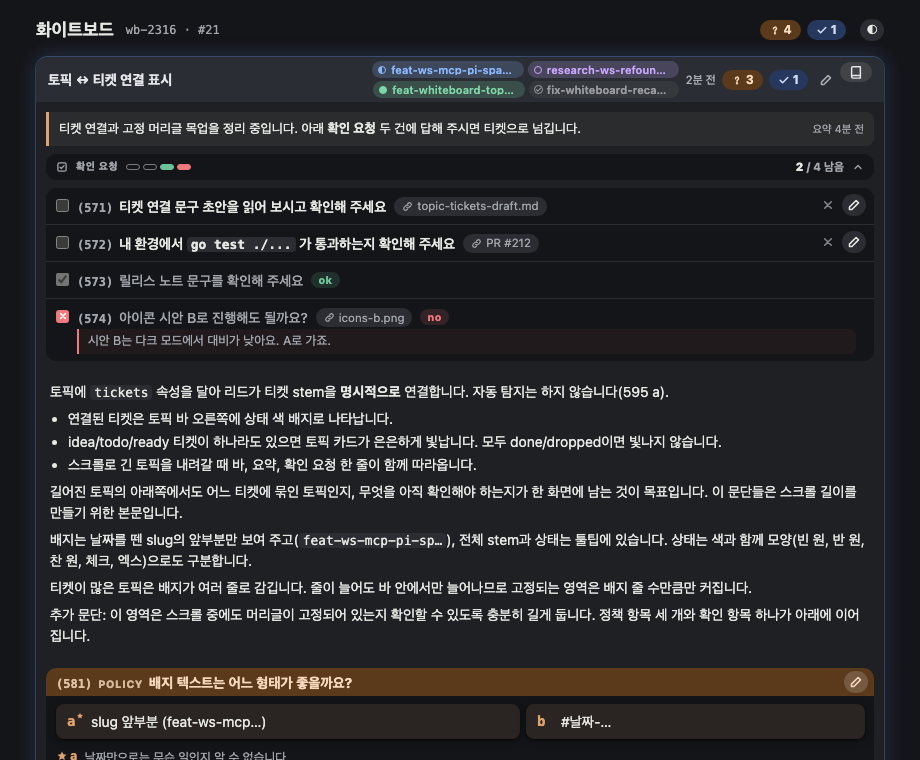
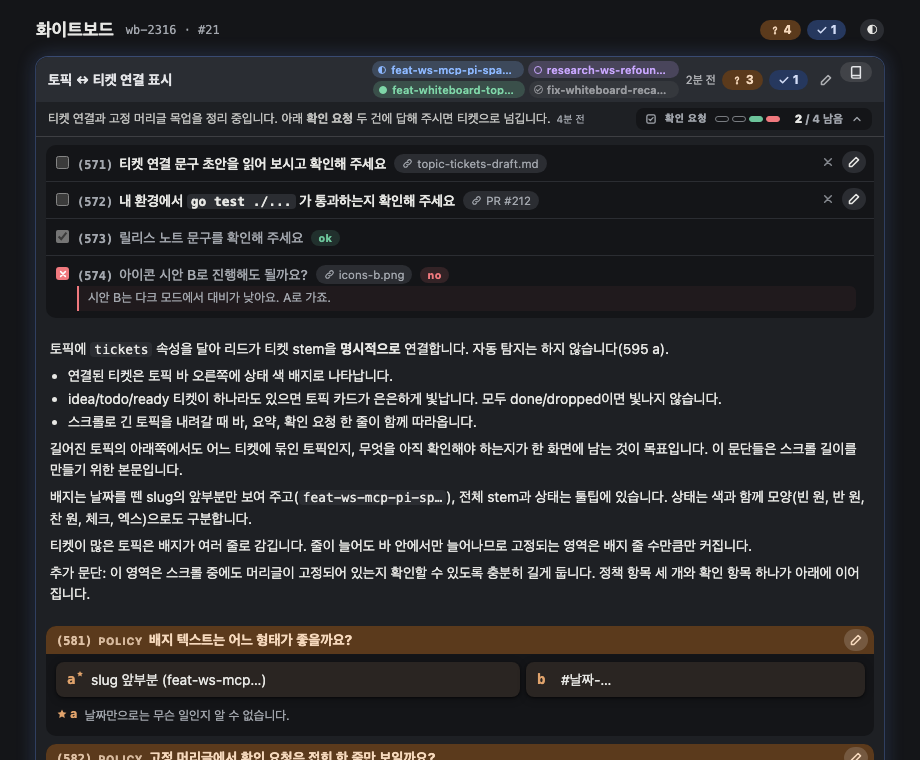
docs(whiteboard): r7b recap sits in the sticky head as plain text on one line with the check pill
Revises the r7 mockup: inside .thead the recap drops its card, and the check
pill shares its line.

## AI Context
- User feedback on r7 (relayed by the coordinator): the recap has too much
  margin, and its bordered accent card feels awkward travelling with a
  header; tone it to match the head. Ideas offered were tighter rhythm on the
  bar's surface, smaller or no accent, muted text, recap and check pill on one
  line, and a shrunk or merged timestamp. Mockup only; plan file unchanged.
- Chosen: recap is muted 12.5px text on the head's own surface (no wash, no
  accent bar, no margins); its time is a tiny inline suffix at the end of the
  text instead of a "요약 <time>" label; recap and pill share one flex line
  and wrap (pill on its own line under 600px); a hairline under the head
  replaces the card edge. Head height at 920px: 131 -> 80px (no check list
  82 -> 61); at 520px: 178 -> 148 (105 -> 84).
- Rejected: merging the recap time into the bar's time, because the two are
  different times (topic update vs recap update) and merging would misstate
  one. Rejected: keeping a thin accent bar, since the head already has the
  dark bar as its anchor and the accent read as a second heading.
- Rest and stuck share the same markup, so their heights stay identical.
  The shipped .trecap card is untouched for recaps outside the head.
- Re-shot all head PNGs (rest, stuck, popover, narrow, glow) in light and
  dark with headless Chromium; no page errors.
[…]

Changed region(s): [[0.0304, 0.1513, 0.9739, 1.0], [0.7, 0.1513, 0.9435, 0.3329]]

diff --git a/ai-docs/ref/whiteboard-mockup/r7-topic-tickets-sticky/index.html b/ai-docs/ref/whiteboard-mockup/r7-topic-tickets-sticky/index.html
@@ -617,7 +617,7 @@ details.panel .body { container-type: inline-size; }
 
 /* -- the sticky head: bar + recap + check summary stick as one unit -- */
 .topic { overflow: clip; }
-.topic > .thead { position: sticky; top: var(--wb-rail-top, 0px); z-index: 3; background: var(--wb-card); padding-bottom: 8px; }
+.topic > .thead { position: sticky; top: var(--wb-rail-top, 0px); z-index: 3; background: var(--wb-card); padding-bottom: 6px; border-bottom: 1px solid var(--wb-line); }
 .thead .tbar { border-radius: var(--wb-radius) var(--wb-radius) 0 0; }
 .thead.wb-stuck { box-shadow: 0 7px 10px -7px rgb(0 0 0 / .4), 0 -6px 0 6px var(--wb-bg); }
 /* today's rule for a stuck bar: the book button scrolls away, so the bar gives its room back */
@@ -626,11 +626,17 @@ details.panel .body { container-type: inline-size; }
 /* the book button is positioned against the topic, so it must clear the head at rest and slip under it once stuck */
 .topic > details.tdoc > summary { z-index: 4; }
 .topic > .thead.wb-stuck ~ details.tdoc > summary { z-index: 2; }
-.thead .trecap { margin-bottom: 0; }
 
 /* check summary: one pill row, always in the head; the list itself is NOT in the head */
-.checks { position: static; margin: 8px 10px 0; }
-.chead { width: 100%; display: flex; align-items: center; gap: 8px; height: 26px; padding: 0 10px; border: 0; border-radius: 10px; background: var(--wb-bg); color: var(--wb-muted-fg); font-size: 10.5px; font-weight: 800; letter-spacing: .06em; text-transform: uppercase; cursor: pointer; text-align: left; }
+.checks { position: static; margin: 0; flex: 0 0 auto; width: 236px; }
+/* r7b: inside the head the recap is plain text on the head's own surface (no card, no accent bar, no margins),
+   and recap and check pill share one line where the width allows */
+.thead .tsub { display: flex; flex-wrap: wrap; align-items: center; gap: 4px 12px; padding: 6px 12px 0; }
+.thead .trecap { flex: 1 1 22em; display: block; margin: 0; padding: 0; background: none; border: 0; border-radius: 0; font-size: 12.5px; line-height: 1.45; color: color-mix(in srgb, var(--wb-fg) 80%, transparent); }
+.thead .trecap .rtext { display: block; flex: none; }
+.thead .trecap .rtext > p { display: inline; margin: 0; }
+.thead .trecap .rat { display: inline; margin-left: 6px; font-size: 10.5px; color: var(--wb-muted-fg); }
+.chead { width: 100%; display: flex; align-items: center; gap: 8px; height: 22px; padding: 0 9px; border: 0; border-radius: 8px; background: var(--wb-bg); color: var(--wb-muted-fg); font-size: 10.5px; font-weight: 800; letter-spacing: .06em; text-transform: uppercase; cursor: pointer; text-align: left; white-space: nowrap; }
 .chead:hover { color: var(--wb-fg); }
 .chead:focus-visible { outline: 2px solid var(--wb-primary); outline-offset: 1px; }
 .chead .i { width: 12px; height: 12px; flex: none; }
@@ -643,11 +649,11 @@ details.panel .body { container-type: inline-size; }
 .chead .chev { transition: transform .15s; }
 .chead[aria-expanded="true"] .chev { transform: rotate(180deg); }
 /* stuck: the expansion is a popover under the head, over the body; at rest the list is in flow */
-.cpop { position: absolute; left: 10px; right: 10px; top: calc(100% - 4px); max-height: 46vh; overflow-y: auto; border-radius: 10px; background: var(--wb-bg); box-shadow: var(--wb-shadow-hi), 0 0 0 1px var(--wb-line); }
+.cpop { position: absolute; left: 10px; right: 10px; top: calc(100% - 2px); max-height: 46vh; overflow-y: auto; border-radius: 10px; background: var(--wb-bg); box-shadow: var(--wb-shadow-hi), 0 0 0 1px var(--wb-line); }
 .cpop[hidden] { display: none; }
 
 /* the in-flow check list (r6, unchanged): recessed surface under the head */
-.crows { margin: 0 10px 10px; border-radius: 10px; overflow: hidden; background: var(--wb-bg); }
+.crows { margin: 8px 10px 10px; border-radius: 10px; overflow: hidden; background: var(--wb-bg); }
 .crows[hidden] { display: none; }
 .crow + .crow { border-top: 1px solid var(--wb-muted); }
 .crow > .btn.mini { margin-top: 6px; }
@@ -685,19 +691,20 @@ details.panel .body { container-type: inline-size; }
   .thead .tbar { flex-wrap: wrap; row-gap: 4px; padding-top: 5px; padding-bottom: 5px; }
   .thead .tbar .tlead { flex: 1 1 8em; }
   .thead .tbar .ttix { order: 9; flex: 1 1 100%; max-width: none; }
+  .checks { flex: 1 1 100%; width: auto; }
 }
 </style></head>
 <body class="full"><svg width="0" height="0" style="position:absolute" aria-hidden="true"><symbol id="i-check" viewBox="0 0 16 16"><path d="M3 8.5l3.2 3.1L13 4.6"/></symbol><symbol id="i-x" viewBox="0 0 16 16"><path d="M4.2 4.2l7.6 7.6M11.8 4.2l-7.6 7.6"/></symbol><symbol id="i-pen" viewBox="0 0 16 16"><path d="M10.4 2.8l2.8 2.8-7.6 7.6H2.8v-2.8z"/></symbol><symbol id="i-copy" viewBox="0 0 16 16"><rect x="5.5" y="5.5" width="8" height="8" rx="1.6"/><path d="M10.5 3.2V3a.8.8 0 0 0-.8-.8H3a.8.8 0 0 0-.8.8v6.7c0 .4.4.8.8.8h.2"/></symbol><symbol id="i-list" viewBox="0 0 16 16"><path d="M3 4.5h10M3 8h10M3 11.5h10"/></symbol><symbol id="i-arrow" viewBox="0 0 16 16"><path d="M2.5 8h10M9 4.5L12.5 8 9 11.5"/></symbol><symbol id="i-ask" viewBox="0 0 16 16"><path d="M6 6.2a2 2 0 1 1 2.8 1.8c-.5.3-.8.7-.8 1.3v.4"/><circle cx="8" cy="12.3" r=".6" fill="currentColor"/></symbol><symbol id="i-star" viewBox="0 0 16 16"><path fill="currentColor" stroke="none" d="M8 1.9l1.8 3.8 4.1.5-3 2.9.8 4.1L8 11.2l-3.7 2 .8-4.1-3-2.9 4.1-.5z"/></symbol><symbol id="i-now" viewBox="0 0 16 16"><path fill="currentColor" stroke="none" d="M8 2l6 6-6 6-6-6z"/></symbol><symbol id="i-todo" viewBox="0 0 16 16"><rect x="2.5" y="2.5" width="11" height="11" rx="2"/><path d="M5.2 8.2l1.9 1.8 3.7-3.8"/></symbol><symbol id="i-agenda" viewBox="0 0 16 16"><path d="M4 13.8V2.4h7.6l-1.7 3 1.7 3H4"/></symbol><symbol id="i-mail" viewBox="0 0 16 16"><rect x="2" y="3.5" width="12" height="9" rx="1.6"/><path d="M2.6 4.6L8 8.8l5.4-4.2"/></symbol><symbol id="i-book" viewBox="0 0 16 16"><path d="M3 3.5a1.5 1.5 0 0 1 1.5-1.5H13v10H4.5A1.5 1.5 0 0 0 3 13.5zM3 13.5A1.5 1.5 0 0 0 4.5 15H13v-3"/></symbol><symbol id="i-board" viewBox="0 0 16 16"><rect x="2" y="2.5" width="12" height="11" rx="1.6"/><path d="M6 2.5v11M10 2.5v11"/></symbol>
 <symbol id="i-reload" viewBox="0 0 16 16"><path d="M14.3 2.8v3.9h-3.9"/><path d="M13 10.2a5.4 5.4 0 1 1-1.3-5.6l2.6 2.1"/></symbol><symbol id="i-link" viewBox="0 0 16 16"><path d="M6.8 9.2a2.6 2.6 0 0 0 3.7 0l2.2-2.2a2.6 2.6 0 0 0-3.7-3.7l-.9.9M9.2 6.8a2.6 2.6 0 0 0-3.7 0L3.3 9a2.6 2.6 0 0 0 3.7 3.7l.9-.9"/></symbol><symbol id="i-box" viewBox="0 0 16 16"><rect x="2.5" y="2.5" width="11" height="11" rx="2"/></symbol><symbol id="i-box-wip" viewBox="0 0 16 16"><rect x="2.5" y="2.5" width="11" height="11" rx="2"/><path fill="currentColor" stroke="none" d="M5 5.2h3v5.6H5z"/></symbol><symbol id="i-box-done" viewBox="0 0 16 16"><rect x="2.5" y="2.5" width="11" height="11" rx="2"/><path d="M5.2 8.2l1.9 1.8 3.7-3.8"/></symbol><symbol id="i-box-defer" viewBox="0 0 16 16"><rect x="2.5" y="2.5" width="11" height="11" rx="2"/><path d="M5.6 8h4.6M8.6 5.9L10.7 8l-2.1 2.1"/></symbol><symbol id="i-zoom-in" viewBox="0 0 16 16"><circle cx="7" cy="7" r="4.6"/><path d="M10.4 10.4L14 14M5 7h4M7 5v4"/></symbol><symbol id="i-zoom-out" viewBox="0 0 16 16"><circle cx="7" cy="7" r="4.6"/><path d="M10.4 10.4L14 14M5 7h4"/></symbol><symbol id="i-fit" viewBox="0 0 16 16"><path d="M2.5 6V2.5H6M10 2.5h3.5V6M13.5 10v3.5H10M6 13.5H2.5V10"/></symbol><symbol id="i-ext" viewBox="0 0 16 16"><path d="M9 2.5h4.5V7M13.5 2.5L7.5 8.5M11.5 9.5v3a1 1 0 0 1-1 1h-6a1 1 0 0 1-1-1v-6a1 1 0 0 1 1-1h3"/></symbol><symbol id="i-chev" viewBox="0 0 16 16"><path d="M4 6l4 4 4-4"/></symbol></svg><div class="wrap">
 <div class="top"><h1>화이트보드</h1><span class="meta">wb-2316 · #21</span><span class="counts"><span class="chip policy"><svg class="i" aria-hidden="true"><use href="#i-ask"/></svg>4</span><span class="chip ok"><svg class="i" aria-hidden="true"><use href="#i-check"/></svg>1</span><button class="btn mini themebtn" id="theme" title="light / dark">◐</button></span></div>
-<section class="topic has-doc live" data-topic="topic-tickets"><div class="thead"><div class="tbar"><span class="tlead"><span class="tname">토픽 ↔ 티켓 연결 표시</span></span><span class="ttix"><a class="tk todo" href="#" title="261112-feat-ws-mcp-pi-spawn-claude-lead-path - todo"><span class="st"></span><span class="nm">feat-ws-mcp-pi-spawn-claude-lead-path</span></a><a class="tk idea" href="#" title="260909-research-ws-refoundation-evidence-audit - idea"><span class="st"></span><span class="nm">research-ws-refoundation-evidence-audit</span></a><a class="tk ready" href="#" title="261108-feat-whiteboard-topic-tickets-attribute - ready"><span class="st"></span><span class="nm">feat-whiteboard-topic-tickets-attribute</span></a><a class="tk done" href="#" title="261101-fix-whiteboard-recap-clip - done"><svg class="st i" aria-hidden="true"><use href="#i-check"/></svg><span class="nm">fix-whiteboard-recap-clip</span></a></span><time class="tago" title="갱신">2분 전</time><button type="button" class="chip policy bulk"><svg class="i" aria-hidden="true"><use href="#i-ask"/></svg>3</button><button type="button" class="chip ok bulk"><svg class="i" aria-hidden="true"><use href="#i-check"/></svg>1</button><button class="btn mini tnote-toggle" title="토픽 메모"><svg class="i" aria-hidden="true"><use href="#i-pen"/></svg></button></div><div class="trecap"><div class="rtext md"><p>티켓 연결과 고정 머리글 목업을 정리 중입니다. 아래 <b>확인 요청</b> 두 건에 답해 주시면 티켓으로 넘깁니다.</p></div><span class="rat" title="2026-11-12 23:20">요약 <time class="tago">4분 전</time></span></div><div class="checks"><button class="chead" type="button" aria-expanded="true" title="확인 요청"><svg class="i" aria-hidden="true"><use href="#i-todo"/></svg>확인 요청<span class="pips"></span><span class="prog"><b>0</b> / 0 남음</span><svg class="i chev" aria-hidden="true"><use href="#i-chev"/></svg></button><div class="cpop" hidden></div></div></div><div class="crows"><div class="arow crow" id="item-571" data-id="571"><label class="ack ck"><input type="checkbox" data-id="571"><span class="atext"><span class="head"><span class="id">(571)</span><span class="title">티켓 연결 문구 초안을 읽어 보시고 확인해 주세요</span></span><a class="lchip" href="#"><svg class="i" aria-hidden="true"><use href="#i-link"/></svg>topic-tickets-draft.md</a></span></label><button class="btn mini no-toggle" title="아니요(no)로 답하기"><svg class="i" aria-hidden="true"><use href="#i-x"/></svg></button><button class="btn mini note-toggle" title="메모"><svg class="i" aria-hidden="true"><use href="#i-pen"/></svg></button></div><div class="arow crow" id="item-572" data-id="572"><label class="ack ck"><input type="checkbox" data-id="572"><span class="atext"><span class="head"><span class="id">(572)</span><span class="title">내 환경에서 <code>go test ./...</code> 가 통과하는지 확인해 주세요</span></span><a class="lchip" href="#"><svg class="i" aria-hidden="true"><use href="#i-link"/></svg>PR #212</a></span></label><button class="btn mini no-toggle" title="아니요(no)로 답하기"><svg class="i" aria-hidden="true"><use href="#i-x"/></svg></button><button class="btn mini note-toggle" title="메모"><svg class="i" aria-hidden="true"><use href="#i-pen"/></svg></button></div><div class="arow crow done" id="item-573"><label class="ack ck"><input type="checkbox" checked disabled><span class="atext"><span class="head"><span class="id">(573)</span><span class="title">릴리스 노트 문구를 확인해 주세요</span></span><span class="stamp">ok</span></span></label></div><div class="arow crow no" id="item-574"><label class="ack ck"><span class="cbox"><svg class="i" aria-hidden="true"><use href="#i-x"/></svg></span><span class="atext"><span class="head"><span class="id">(574)</span><span class="title">아이콘 시안 B로 진행해도 될까요?</span></span><a class="lchip" href="#"><svg class="i" aria-hidden="true"><use href="#i-link"/></svg>icons-b.png</a><span class="stamp">no</span><span class="said">시안 B는 다크 모드에서 대비가 낮아요. A로 가죠.</span></span></label></div></div><textarea class="note tnote" rows="1" placeholder="✎" title="토픽 메모" hidden></textarea><details class="tdoc" open><summary title="토픽 본문"><svg class="i" aria-hidden="true"><use href="#i-book"/></svg></summary><div class="doc-body md"><p>토픽에 <code>tickets</code> 속성을 달아 리드가 티켓 stem을 <b>명시적으로</b> 연결합니다. 자동 탐지는 하지 않습니다(595 a).</p>
+<section class="topic has-doc live" data-topic="topic-tickets"><div class="thead"><div class="tbar"><span class="tlead"><span class="tname">토픽 ↔ 티켓 연결 표시</span></span><span class="ttix"><a class="tk todo" href="#" title="261112-feat-ws-mcp-pi-spawn-claude-lead-path - todo"><span class="st"></span><span class="nm">feat-ws-mcp-pi-spawn-claude-lead-path</span></a><a class="tk idea" href="#" title="260909-research-ws-refoundation-evidence-audit - idea"><span class="st"></span><span class="nm">research-ws-refoundation-evidence-audit</span></a><a class="tk ready" href="#" title="261108-feat-whiteboard-topic-tickets-attribute - ready"><span class="st"></span><span class="nm">feat-whiteboard-topic-tickets-attribute</span></a><a class="tk done" href="#" title="261101-fix-whiteboard-recap-clip - done"><svg class="st i" aria-hidden="true"><use href="#i-check"/></svg><span class="nm">fix-whiteboard-recap-clip</span></a></span><time class="tago" title="갱신">2분 전</time><button type="button" class="chip policy bulk"><svg class="i" aria-hidden="true"><use href="#i-ask"/></svg>3</button><button type="button" class="chip ok bulk"><svg class="i" aria-hidden="true"><use href="#i-check"/></svg>1</button><button class="btn mini tnote-toggle" title="토픽 메모"><svg class="i" aria-hidden="true"><use href="#i-pen"/></svg></button></div><div class="tsub"><div class="trecap"><div class="rtext md"><p>티켓 연결과 고정 머리글 목업을 정리 중입니다. 아래 <b>확인 요청</b> 두 건에 답해 주시면 티켓으로 넘깁니다.</p><span class="rat" title="요약 2026-11-12 23:20"><time class="tago">4분 전</time></span></div></div><div class="checks"><button class="chead" type="button" aria-expanded="true" title="확인 요청"><svg class="i" aria-hidden="true"><use href="#i-todo"/></svg>확인 요청<span class="pips"></span><span class="prog"><b>0</b> / 0 남음</span><svg class="i chev" aria-hidden="true"><use href="#i-chev"/></svg></button><div class="cpop" hidden></div></div></div></div><div class="crows"><div class="arow crow" id="item-571" data-id="571"><label class="ack ck"><input type="checkbox" data-id="571"><span class="atext"><span class="head"><span class="id">(571)</span><span class="title">티켓 연결 문구 초안을 읽어 보시고 확인해 주세요</span></span><a class="lchip" href="#"><svg class="i" aria-hidden="true"><use href="#i-link"/></svg>topic-tickets-draft.md</a></span></label><button class="btn mini no-toggle" title="아니요(no)로 답하기"><svg class="i" aria-hidden="true"><use href="#i-x"/></svg></button><button class="btn mini note-toggle" title="메모"><svg class="i" aria-hidden="true"><use href="#i-pen"/></svg></button></div><div class="arow crow" id="item-572" data-id="572"><label class="ack ck"><input type="checkbox" data-id="572"><span class="atext"><span class="head"><span class="id">(572)</span><span class="title">내 환경에서 <code>go test ./...</code> 가 통과하는지 확인해 주세요</span></span><a class="lchip" href="#"><svg class="i" aria-hidden="true"><use href="#i-link"/></svg>PR #212</a></span></label><button class="btn mini no-toggle" title="아니요(no)로 답하기"><svg class="i" aria-hidden="true"><use href="#i-x"/></svg></button><button class="btn mini note-toggle" title="메모"><svg class="i" aria-hidden="true"><use href="#i-pen"/></svg></button></div><div class="arow crow done" id="item-573"><label class="ack ck"><input type="checkbox" checked disabled><span class="atext"><span class="head"><span class="id">(573)</span><span class="title">릴리스 노트 문구를 확인해 주세요</span></span><span class="stamp">ok</span></span></label></div><div class="arow crow no" id="item-574"><label class="ack ck"><span class="cbox"><svg class="i" aria-hidden="true"><use href="#i-x"/></svg></span><span class="atext"><span class="head"><span class="id">(574)</span><span class="title">아이콘 시안 B로 진행해도 될까요?</span></span><a class="lchip" href="#"><svg class="i" aria-hidden="true"><use href="#i-link"/></svg>icons-b.png</a><span class="stamp">no</span><span class="said">시안 B는 다크 모드에서 대비가 낮아요. A로 가죠.</span></span></label></div></div><textarea class="note tnote" rows="1" placeholder="✎" title="토픽 메모" hidden></textarea><details class="tdoc" open><summary title="토픽 본문"><svg class="i" aria-hidden="true"><use href="#i-book"/></svg></summary><div class="doc-body md"><p>토픽에 <code>tickets</code> 속성을 달아 리드가 티켓 stem을 <b>명시적으로</b> 연결합니다. 자동 탐지는 하지 않습니다(595 a).</p>
 <ul><li>연결된 티켓은 토픽 바 오른쪽에 상태 색 배지로 나타납니다.</li><li>idea/todo/ready 티켓이 하나라도 있으면 토픽 카드가 은은하게 빛납니다. 모두 done/dropped이면 빛나지 않습니다.</li><li>스크롤로 긴 토픽을 내려갈 때 바, 요약, 확인 요청 한 줄이 함께 따라옵니다.</li></ul>
 <p>길어진 토픽의 아래쪽에서도 어느 티켓에 묶인 토픽인지, 무엇을 아직 확인해야 하는지가 한 화면에 남는 것이 목표입니다. 이 문단들은 스크롤 길이를 만들기 위한 본문입니다.</p>
 <p>배지는 날짜를 뗀 slug의 앞부분만 보여 주고(<code>feat-ws-mcp-pi-sp…</code>), 전체 stem과 상태는 툴팁에 있습니다. 상태는 색과 함께 모양(빈 원, 반 원, 찬 원, 체크, 엑스)으로도 구분합니다.</p>
 <p>티켓이 많은 토픽은 배지가 여러 줄로 감깁니다. 줄이 늘어도 바 안에서만 늘어나므로 고정되는 영역은 배지 줄 수만큼만 커집니다.</p>
 <p>추가 문단: 이 영역은 스크롤 중에도 머리글이 고정되어 있는지 확인할 수 있도록 충분히 길게 둡니다. 정책 항목 세 개와 확인 항목 하나가 아래에 이어집니다.</p></div></details><div class="tbody"><div class="card policy" id="item-581" data-id="581"><div class="cbar"><span class="head"><span class="id">(581)</span><span class="cls">policy</span><span class="title">배지 텍스트는 어느 형태가 좋을까요?</span></span><button class="btn mini note-toggle" title="메모"><svg class="i" aria-hidden="true"><use href="#i-pen"/></svg></button></div><div class="cbody"><div class="opts"><button class="opt rec" data-opt="a" aria-pressed="false"><span class="k">a<svg class="i" aria-hidden="true"><use href="#i-star"/></svg></span><span>slug 앞부분 (feat-ws-mcp…)</span></button><button class="opt" data-opt="b" aria-pressed="false"><span class="k">b</span><span>#날짜-…</span></button></div><div class="rec-line md" title="추천"><b><svg class="i" aria-hidden="true"><use href="#i-star"/></svg>a</b> 날짜만으로는 무슨 일인지 알 수 없습니다.</div></div></div><div class="card policy" id="item-582" data-id="582"><div class="cbar"><span class="head"><span class="id">(582)</span><span class="cls">policy</span><span class="title">고정 머리글에서 확인 요청은 접힌 한 줄만 보일까요?</span></span><button class="btn mini note-toggle" title="메모"><svg class="i" aria-hidden="true"><use href="#i-pen"/></svg></button></div><div class="cbody"><div class="opts"><button class="opt rec" data-opt="a" aria-pressed="false"><span class="k">a<svg class="i" aria-hidden="true"><use href="#i-star"/></svg></span><span>접힌 한 줄, 클릭하면 펼침</span></button><button class="opt" data-opt="b" aria-pressed="false"><span class="k">b</span><span>항상 펼침</span></button></div><div class="rec-line md" title="추천"><b><svg class="i" aria-hidden="true"><use href="#i-star"/></svg>a</b> 머리글이 화면을 가리지 않습니다.</div></div></div><div class="card policy" id="item-583" data-id="583"><div class="cbar"><span class="head"><span class="id">(583)</span><span class="cls">policy</span><span class="title">글로우 색은 무엇으로 할까요?</span></span><button class="btn mini note-toggle" title="메모"><svg class="i" aria-hidden="true"><use href="#i-pen"/></svg></button></div><div class="cbody"><div class="opts"><button class="opt rec" data-opt="a" aria-pressed="false"><span class="k">a<svg class="i" aria-hidden="true"><use href="#i-star"/></svg></span><span>보드 primary</span></button><button class="opt" data-opt="b" aria-pressed="false"><span class="k">b</span><span>상태별 색</span></button></div><div class="rec-line md" title="추천"><b><svg class="i" aria-hidden="true"><use href="#i-star"/></svg>a</b> 새 색을 만들지 않습니다.</div></div></div><div class="acks"><div class="arow" id="item-584" data-id="584"><label class="ack"><input type="checkbox" data-id="584"><span class="atext"><span class="head"><span class="id">(584)</span><span class="tag announced">announced</span><span class="title">목업은 제품 코드를 건드리지 않았습니다</span></span><span class="why">ai-docs/ref/whiteboard-mockup/r7-topic-tickets-sticky/ 만 추가됩니다.</span></span></label><button class="btn mini note-toggle" title="메모"><svg class="i" aria-hidden="true"><use href="#i-pen"/></svg></button></div></div></div></section>
 <div class="spacer"></div>
-<section class="topic live" data-topic="pi-spawn"><div class="thead"><div class="tbar"><span class="tlead"><span class="tname">pi spawn: claude 리드 경로</span></span><span class="ttix"><a class="tk ready" href="#" title="261112-feat-ws-mcp-pi-spawn-claude-lead-path - ready"><span class="st"></span><span class="nm">feat-ws-mcp-pi-spawn-claude-lead-path</span></a><a class="tk done" href="#" title="261030-fix-wiki-link-escape - done"><svg class="st i" aria-hidden="true"><use href="#i-check"/></svg><span class="nm">fix-wiki-link-escape</span></a></span><time class="tago" title="갱신">1시간 전</time><button class="btn mini tnote-toggle" title="토픽 메모"><svg class="i" aria-hidden="true"><use href="#i-pen"/></svg></button></div><div class="trecap"><div class="rtext md"><p><b>glow</b>: ready 티켓이 하나 있어 카드가 빛납니다.</p></div><span class="rat" title="2026-11-12 23:20">요약 <time class="tago">1시간 전</time></span></div></div><div class="tbody"><div class="card policy" id="item-591" data-id="591"><div class="cbar"><span class="head"><span class="id">(591)</span><span class="cls">policy</span><span class="title">스폰 경로를 한 번에 합칠까요?</span></span><button class="btn mini note-toggle" title="메모"><svg class="i" aria-hidden="true"><use href="#i-pen"/></svg></button></div><div class="cbody"><div class="opts"><button class="opt rec" data-opt="a" aria-pressed="false"><span class="k">a<svg class="i" aria-hidden="true"><use href="#i-star"/></svg></span><span>합친다</span></button><button class="opt" data-opt="b" aria-pressed="false"><span class="k">b</span><span>나눈다</span></button></div><div class="rec-line md" title="추천"><b><svg class="i" aria-hidden="true"><use href="#i-star"/></svg>a</b> 한 번에 합치는 편이 단순합니다.</div></div></div></div></section><section class="topic" data-topic="check-items"><div class="thead"><div class="tbar"><span class="tlead"><span class="tname">화이트보드 check 항목</span></span><span class="ttix"><a class="tk done" href="#" title="261021-feat-whiteboard-check-items - done"><svg class="st i" aria-hidden="true"><use href="#i-check"/></svg><span class="nm">feat-whiteboard-check-items</span></a><a class="tk done" href="#" title="261022-fix-whiteboard-ack-bulk - done"><svg class="st i" aria-hidden="true"><use href="#i-check"/></svg><span class="nm">fix-whiteboard-ack-bulk</span></a><a class="tk dropped" href="#" title="261015-idea-whiteboard-dim-bars - dropped"><svg class="st i" aria-hidden="true"><use href="#i-x"/></svg><span class="nm">idea-whiteboard-dim-bars</span></a></span><time class="tago" title="갱신">어제</time><button class="btn mini tnote-toggle" title="토픽 메모"><svg class="i" aria-hidden="true"><use href="#i-pen"/></svg></button></div><div class="trecap"><div class="rtext md"><p><b>no glow</b>: 연결된 티켓이 모두 done/dropped입니다.</p></div><span class="rat" title="2026-11-12 23:20">요약 <time class="tago">어제</time></span></div></div><div class="tbody"><div class="acks"><div class="arow" id="item-592" data-id="592"><label class="ack"><input type="checkbox" data-id="592"><span class="atext"><span class="head"><span class="id">(592)</span><span class="tag announced">announced</span><span class="title">릴리스에 포함되었습니다</span></span><span class="why">v0.49.0</span></span></label><button class="btn mini note-toggle" title="메모"><svg class="i" aria-hidden="true"><use href="#i-pen"/></svg></button></div></div></div></section><section class="topic" data-topic="release-notes"><div class="thead"><div class="tbar"><span class="tlead"><span class="tname">릴리스 노트 문구</span></span><time class="tago" title="갱신">어제</time><button class="btn mini tnote-toggle" title="토픽 메모"><svg class="i" aria-hidden="true"><use href="#i-pen"/></svg></button></div><div class="trecap"><div class="rtext md"><p><b>no glow</b>: 연결된 티켓이 없습니다 (배지 영역 자체가 없음).</p></div><span class="rat" title="2026-11-12 23:20">요약 <time class="tago">어제</time></span></div></div><div class="tbody"><div class="acks"><div class="arow" id="item-593" data-id="593"><label class="ack"><input type="checkbox" data-id="593"><span class="atext"><span class="head"><span class="id">(593)</span><span class="tag announced">announced</span><span class="title">문구 확인 완료</span></span><span class="why"></span></span></label><button class="btn mini note-toggle" title="메모"><svg class="i" aria-hidden="true"><use href="#i-pen"/></svg></button></div></div></div></section>
+<section class="topic live" data-topic="pi-spawn"><div class="thead"><div class="tbar"><span class="tlead"><span class="tname">pi spawn: claude 리드 경로</span></span><span class="ttix"><a class="tk ready" href="#" title="261112-feat-ws-mcp-pi-spawn-claude-lead-path - ready"><span class="st"></span><span class="nm">feat-ws-mcp-pi-spawn-claude-lead-path</span></a><a class="tk done" href="#" title="261030-fix-wiki-link-escape - done"><svg class="st i" aria-hidden="true"><use href="#i-check"/></svg><span class="nm">fix-wiki-link-escape</span></a></span><time class="tago" title="갱신">1시간 전</time><button class="btn mini tnote-toggle" title="토픽 메모"><svg class="i" aria-hidden="true"><use href="#i-pen"/></svg></button></div><div class="tsub"><div class="trecap"><div class="rtext md"><p><b>glow</b>: ready 티켓이 하나 있어 카드가 빛납니다.</p><span class="rat" title="요약 2026-11-12 23:20"><time class="tago">1시간 전</time></span></div></div></div></div><div class="tbody"><div class="card policy" id="item-591" data-id="591"><div class="cbar"><span class="head"><span class="id">(591)</span><span class="cls">policy</span><span class="title">스폰 경로를 한 번에 합칠까요?</span></span><button class="btn mini note-toggle" title="메모"><svg class="i" aria-hidden="true"><use href="#i-pen"/></svg></button></div><div class="cbody"><div class="opts"><button class="opt rec" data-opt="a" aria-pressed="false"><span class="k">a<svg class="i" aria-hidden="true"><use href="#i-star"/></svg></span><span>합친다</span></button><button class="opt" data-opt="b" aria-pressed="false"><span class="k">b</span><span>나눈다</span></button></div><div class="rec-line md" title="추천"><b><svg class="i" aria-hidden="true"><use href="#i-star"/></svg>a</b> 한 번에 합치는 편이 단순합니다.</div></div></div></div></section><section class="topic" data-topic="check-items"><div class="thead"><div class="tbar"><span class="tlead"><span class="tname">화이트보드 check 항목</span></span><span class="ttix"><a class="tk done" href="#" title="261021-feat-whiteboard-check-items - done"><svg class="st i" aria-hidden="true"><use href="#i-check"/></svg><span class="nm">feat-whiteboard-check-items</span></a><a class="tk done" href="#" title="261022-fix-whiteboard-ack-bulk - done"><svg class="st i" aria-hidden="true"><use href="#i-check"/></svg><span class="nm">fix-whiteboard-ack-bulk</span></a><a class="tk dropped" href="#" title="261015-idea-whiteboard-dim-bars - dropped"><svg class="st i" aria-hidden="true"><use href="#i-x"/></svg><span class="nm">idea-whiteboard-dim-bars</span></a></span><time class="tago" title="갱신">어제</time><button class="btn mini tnote-toggle" title="토픽 메모"><svg class="i" aria-hidden="true"><use href="#i-pen"/></svg></button></div><div class="tsub"><div class="trecap"><div class="rtext md"><p><b>no glow</b>: 연결된 티켓이 모두 done/dropped입니다.</p><span class="rat" title="요약 2026-11-12 23:20"><time class="tago">어제</time></span></div></div></div></div><div class="tbody"><div class="acks"><div class="arow" id="item-592" data-id="592"><label class="ack"><input type="checkbox" data-id="592"><span class="atext"><span class="head"><span class="id">(592)</span><span class="tag announced">announced</span><span class="title">릴리스에 포함되었습니다</span></span><span class="why">v0.49.0</span></span></label><button class="btn mini note-toggle" title="메모"><svg class="i" aria-hidden="true"><use href="#i-pen"/></svg></button></div></div></div></section><section class="topic" data-topic="release-notes"><div class="thead"><div class="tbar"><span class="tlead"><span class="tname">릴리스 노트 문구</span></span><time class="tago" title="갱신">어제</time><button class="btn mini tnote-toggle" title="토픽 메모"><svg class="i" aria-hidden="true"><use href="#i-pen"/></svg></button></div><div class="tsub"><div class="trecap"><div class="rtext md"><p><b>no glow</b>: 연결된 티켓이 없습니다 (배지 영역 자체가 없음).</p><span class="rat" title="요약 2026-11-12 23:20"><time class="tago">어제</time></span></div></div></div></div><div class="tbody"><div class="acks"><div class="arow" id="item-593" data-id="593"><label class="ack"><input type="checkbox" data-id="593"><span class="atext"><span class="head"><span class="id">(593)</span><span class="tag announced">announced</span><span class="title">문구 확인 완료</span></span><span class="why"></span></span></label><button class="btn mini note-toggle" title="메모"><svg class="i" aria-hidden="true"><use href="#i-pen"/></svg></button></div></div></div></section>
 <aside class="mock-notes"><h2>Mockup notes (not part of the board)</h2>
 <div class="variants"><div class="vbar"><span>A: slug (chosen)</span><span class="ttix"><a class="tk todo" href="#" title="261112-feat-ws-mcp-pi-spawn-claude-lead-path - todo"><span class="st"></span><span class="nm">feat-ws-mcp-pi-spawn-claude-lead-path</span></a><a class="tk idea" href="#" title="260909-research-ws-refoundation-evidence-audit - idea"><span class="st"></span><span class="nm">research-ws-refoundation-evidence-audit</span></a><a class="tk ready" href="#" title="261108-feat-whiteboard-topic-tickets-attribute - ready"><span class="st"></span><span class="nm">feat-whiteboard-topic-tickets-attribute</span></a></span></div><div class="vbar"><span>B: #date-…</span><span class="ttix"><a class="tk todo" href="#" title="261112-feat-ws-mcp-pi-spawn-claude-lead-path - todo"><span class="st"></span><span class="nm">#261112-…</span></a><a class="tk idea" href="#" title="260909-research-ws-refoundation-evidence-audit - idea"><span class="st"></span><span class="nm">#260909-…</span></a><a class="tk ready" href="#" title="261108-feat-whiteboard-topic-tickets-attribute - ready"><span class="st"></span><span class="nm">#261108-…</span></a></span></div></div>
 <ol>
@@ -706,6 +713,7 @@ details.panel .body { container-type: inline-size; }
 <li><b>Sticky head.</b> Today only <code>.tbar</code> sticks (rail.js, <code>.wb-rail .topic &gt; .tbar</code>). Here <code>.thead</code> wraps bar, recap, and a one-line check summary, and the wrapper sticks at the same <code>--wb-rail-top</code>; the stuck shadow and the &quot;give the book button's room back&quot; padding rule move to it. rail.js then reads <code>:scope &gt; .thead &gt; .tbar</code>. The alternative, separate sticky siblings (as <code>.tnote</code> does with <code>--wb-rail-note</code>), needs a computed offset per sibling.</li>
 <li><b>Check list.</b> The summary pill (progress pips and &quot;n / m 남음&quot;) is always in the head; the rows stay in flow below it, so nothing in the head changes height when it sticks (no scroll jump). Rows scroll away naturally. Stuck + click on the pill opens the rows as a popover under the head (clone of the rows; try it). At rest, click folds the in-flow list. Tick a box: both copies and the count update.</li>
 <li><b>Not changed.</b> A long recap makes a tall stuck head (no clamp: clamping would change in-flow height at the stick line). The mockup scrolls the document with <code>top:0</code>; the real board sticks under the rail capsules. Quiet (closed) topics keep their muted bar, so badges there would need a muted palette.</li>
+<li><b>r7b: recap in the head (before / after).</b> Before: the recap was the shipped card (wash fill, 3px accent bar, 10px margins, 7px padding, 13px text) with its own &quot;요약 &lt;time&gt;&quot; label, and the check pill sat on a line of its own, so the head was 131px at 920px wide and 178px at 520px (a topic with no check list: 82px / 105px). After (80px / 148px; no check list 61px / 84px): the recap is plain muted text on the head's own surface (no card, no accent, no margins, 12.5px) with its time shrunk and inline at the end, and recap and check pill share one line where they fit (pill on its own line below 600px); a hairline under the head replaces the card edge. Rest and stuck use the same markup, so their heights are identical. The shipped <code>.trecap</code> card stays for a recap outside the head (a closed topic's fold).</li>
 </ol></aside>
 </div>
 <script>
